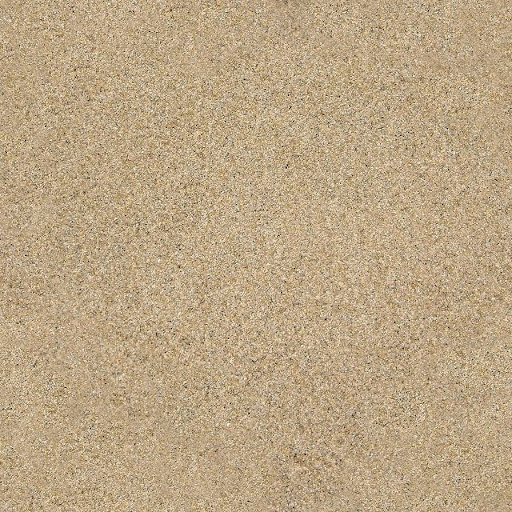
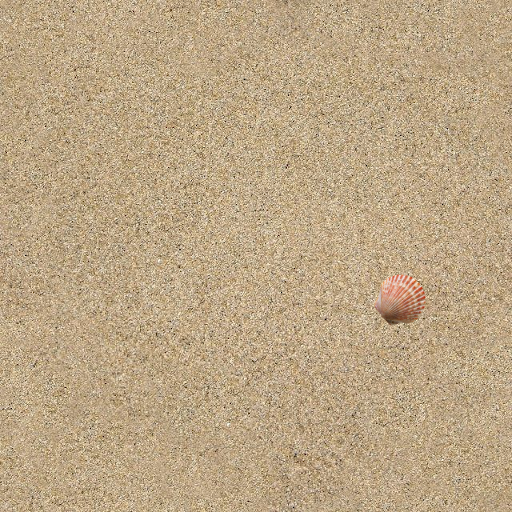
Sea shell

Changed region(s): [[0.7188, 0.5312, 0.8438, 0.6562]]

diff --git a/project/README.md b/project/README.md
@@ -8,6 +8,12 @@
 
 ![Screenshot 1](project/screenshots/proj-t3g02-1.png)
 
+### 2 - MySeaFloor
+
+![Screenshot 2](project/screenshots/proj-t3g02-2a.png)
+![Screenshot 3](project/screenshots/proj-t3g02-2b.png)
+
 ## Links Images
 
 Fish Texture - https://i.etsystatic.com/16852725/r/il/303ef9/1688358389/il_794xN.1688358389_3nx6.jpg
+Sea Shell - https://www.clipartkey.com/view/xobTJ_shell-clipart-shell-scallop-seashell-transparent/
